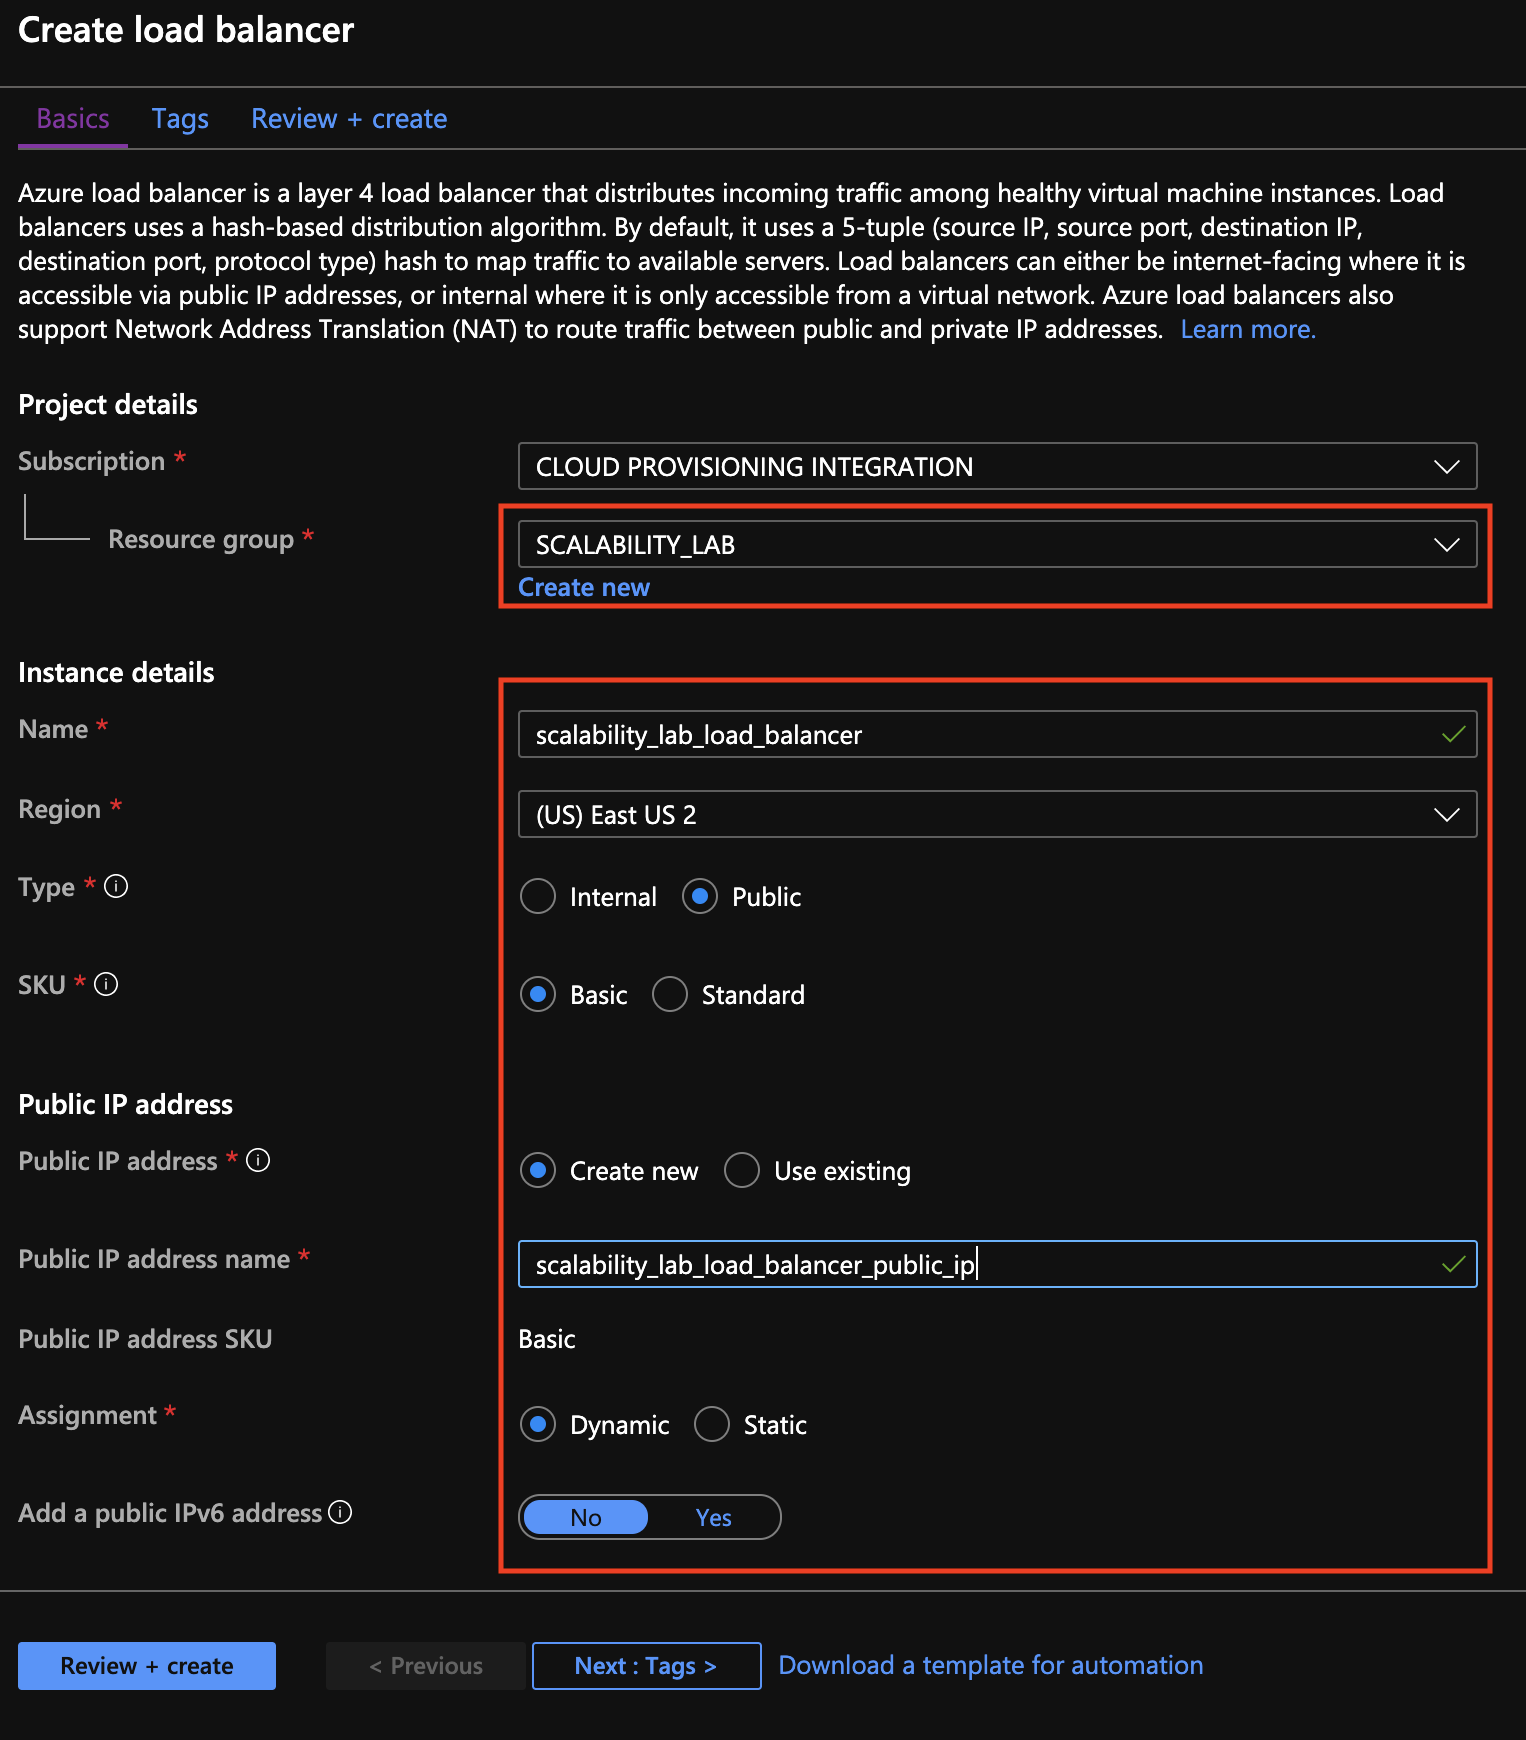
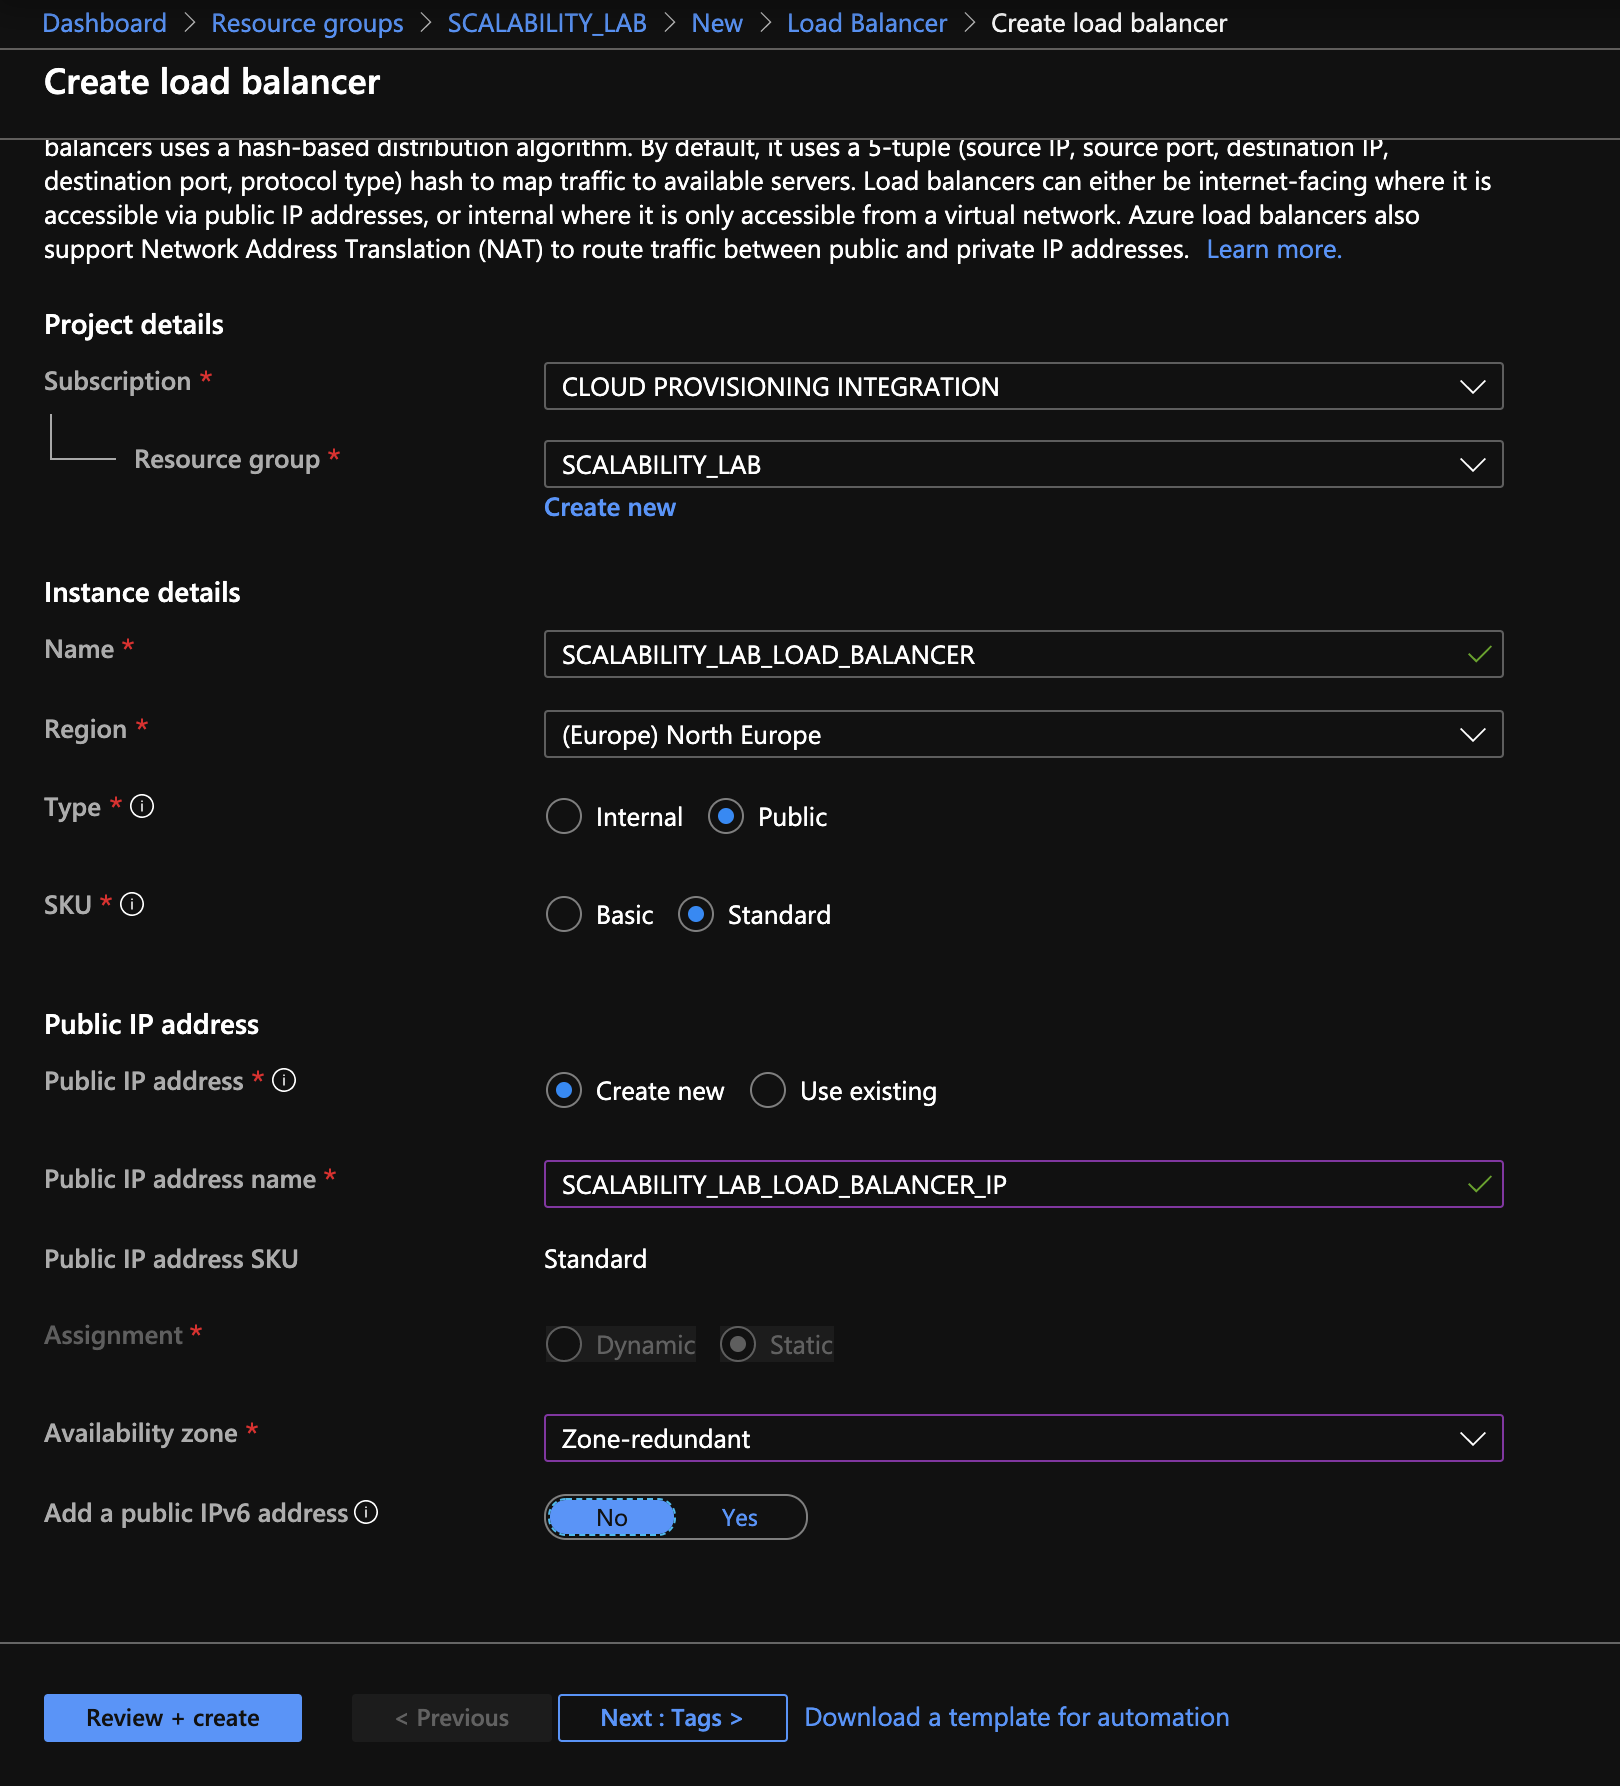
horizontal scaling

diff --git a/README.md b/README.md
@@ -101,13 +101,89 @@ Cuando un conjunto de usuarios consulta un enésimo número (superior a 1000000)
 
 ### Parte 2 - Escalabilidad horizontal
 
-1. El Balanceador de Carga es un recurso fundamental para habilitar la escalabilidad horizontal de uestro sistema, por eso en este paso cree un balanceador de carga dentro de Azure tal cual como se muestra en la imágen adjunta.
+#### Crear el Balanceador de Carga
+
+Antes de continuar puede eliminar el grupo de recursos anterior para evitar gastos adicionales y realizar la actividad en un grupo de recursos totalmente limpio.
+
+1. El Balanceador de Carga es un recurso fundamental para habilitar la escalabilidad horizontal de nuestro sistema, por eso en este paso cree un balanceador de carga dentro de Azure tal cual como se muestra en la imágen adjunta.
 
 ![](images/part2/part2-lb-create.png)
+
+2. A continuación cree un *Backend Pool*, guiese con la siguiente imágen.
+
+![](images/part2/part2-lb-bp-create.png)
+
+3. A continuación cree un *Health Probe*, guiese con la siguiente imágen.
+
+![](images/part2/part2-lb-hp-create.png)
+
+4. A continuación cree un *Load Balancing Rule*, guiese con la siguiente imágen.
+
+![](images/part2/part2-lb-lbr-create.png)
+
+5. Cree una *Virtual Network* dentro del grupo de recursos, guiese con la siguiente imágen.
+
+![](images/part2/part2-vn-create.png)
+
+#### Crear las maquinas virtuales (Nodos)
+
+Ahora vamos a crear 3 VMs (VM1, VM2 y VM3) con direcciones IP públicas standar en 3 diferentes zonas de disponibilidad. Después las agregaremos al balanceador de carga.
+
+1. En la configuración básica de la VM guíese por la siguiente imágen. Es importante que se fije en la "Avaiability Zone", donde la VM1 será 1, la VM2 será 2 y la VM3 será 3.
+
+![](images/part2/part2-vm-create1.png)
+
+2. En la configuración de networking, verifique que se ha seleccionado la *Virtual Network*  y la *Subnet* creadas anteriormente. Adicionalmente asigne una IP pública y no olvide habilitar la redundancia de zona.
+
+![](images/part2/part2-vm-create2.png)
+
+3. Para el Network Security Group seleccione "avanzado" y realice la siguiente configuración. No olvide crear un *Inbound Rule*, en el cual habilite el tráfico por el puerto 3000. Cuando cree la VM2 y la VM3, no necesita volver a crear el *Network Security Group*, sino que puede seleccionar el anteriormente creado.
+
+![](images/part2/part2-vm-create3.png)
+
+4. Ahora asignaremos esta VM a nuestro balanceador de carga, para ello siga la configuración de la siguiente imágen.
+
+![](images/part2/part2-vm-create4.png)
+
+5. Finalmente debemos instalar la aplicación de Fibonacci en la VM. para ello puede ejecutar el conjunto de los siguientes comandos, cambiando el nombre de la VM por el correcto
+
+```
+git clone https://github.com/daprieto1/ARSW_LOAD-BALANCING_AZURE.git
+
+curl -o- https://raw.githubusercontent.com/creationix/nvm/v0.34.0/install.sh | bash
+source /home/vm1/.bashrc
+nvm install node
+
+cd ARSW_LOAD-BALANCING_AZURE/FibonacciApp
+npm install
+
+npm install forever -g
+forever start FibonacciApp.js
+```
+
+Realice este proceso para las 3 VMs, por ahora lo haremos a mano una por una, sin embargo es importante que usted sepa que existen herramientas para aumatizar este proceso, entre ellas encontramos Azure Resource Manager, OsDisk Images, Terraform con Vagrant y Paker, Puppet, Ansible entre otras.
+
+#### Probar el resultado final de nuestra infraestructura
+
+1. Porsupuesto el endpoint de acceso a nuestro sistema será la IP pública del balanceador de carga, primero verifiquemos que los servicios básicos están funcionando, consuma los siguientes recursos:
+
+```
+http://52.155.223.248/
+http://52.155.223.248/fibonacci/1
+```
+
+2. Realice las pruebas de carga con `newman` que se realizaron en la parte 1 y haga un informe comparativo donde contraste: tiempos de respuesta, cantidad de peticiones respondidas con éxito, costos de las 2 infraestrucruras, es decir, la que desarrollamos con balanceo de carga horizontal y la que se hizo con una maquina virtual escalada.
 
 **Preguntas**
 
 * ¿Cuáles son los tipos de balanceadores de carga en Azure y en qué se diferencian?, ¿Qué es SKU, qué tipos hay y en qué se diferencian?, ¿Por qué el balanceador de carga necesita una IP pública?
+* ¿Cuál es el propósito del *Backend Pool*?
+* ¿Cuál es el propósito del *Health Probe*?
+* ¿Cuál es el propósito de la *Load Balancing Rule*? ¿Qué tipos de sesión persistente existen, por qué esto es importante y cómo puede afectar la escalabilidad del sistema?.
+* ¿Qué es una *Virtual Network*? ¿Qué es una *Subnet*? ¿Para qué sirven los *address space* y *address range*?
+* ¿Qué son las *Availability Zone* y por qué seleccionamos 3 diferentes zonas?. ¿Qué significa que una IP sea *zone-redundant*?
+* ¿Cuál es el propósito del *Network Security Group*?
+* Informe de newman 1 (Punto 2)
 * Presente el Diagrama de Despliegue de la solución.
 
 
